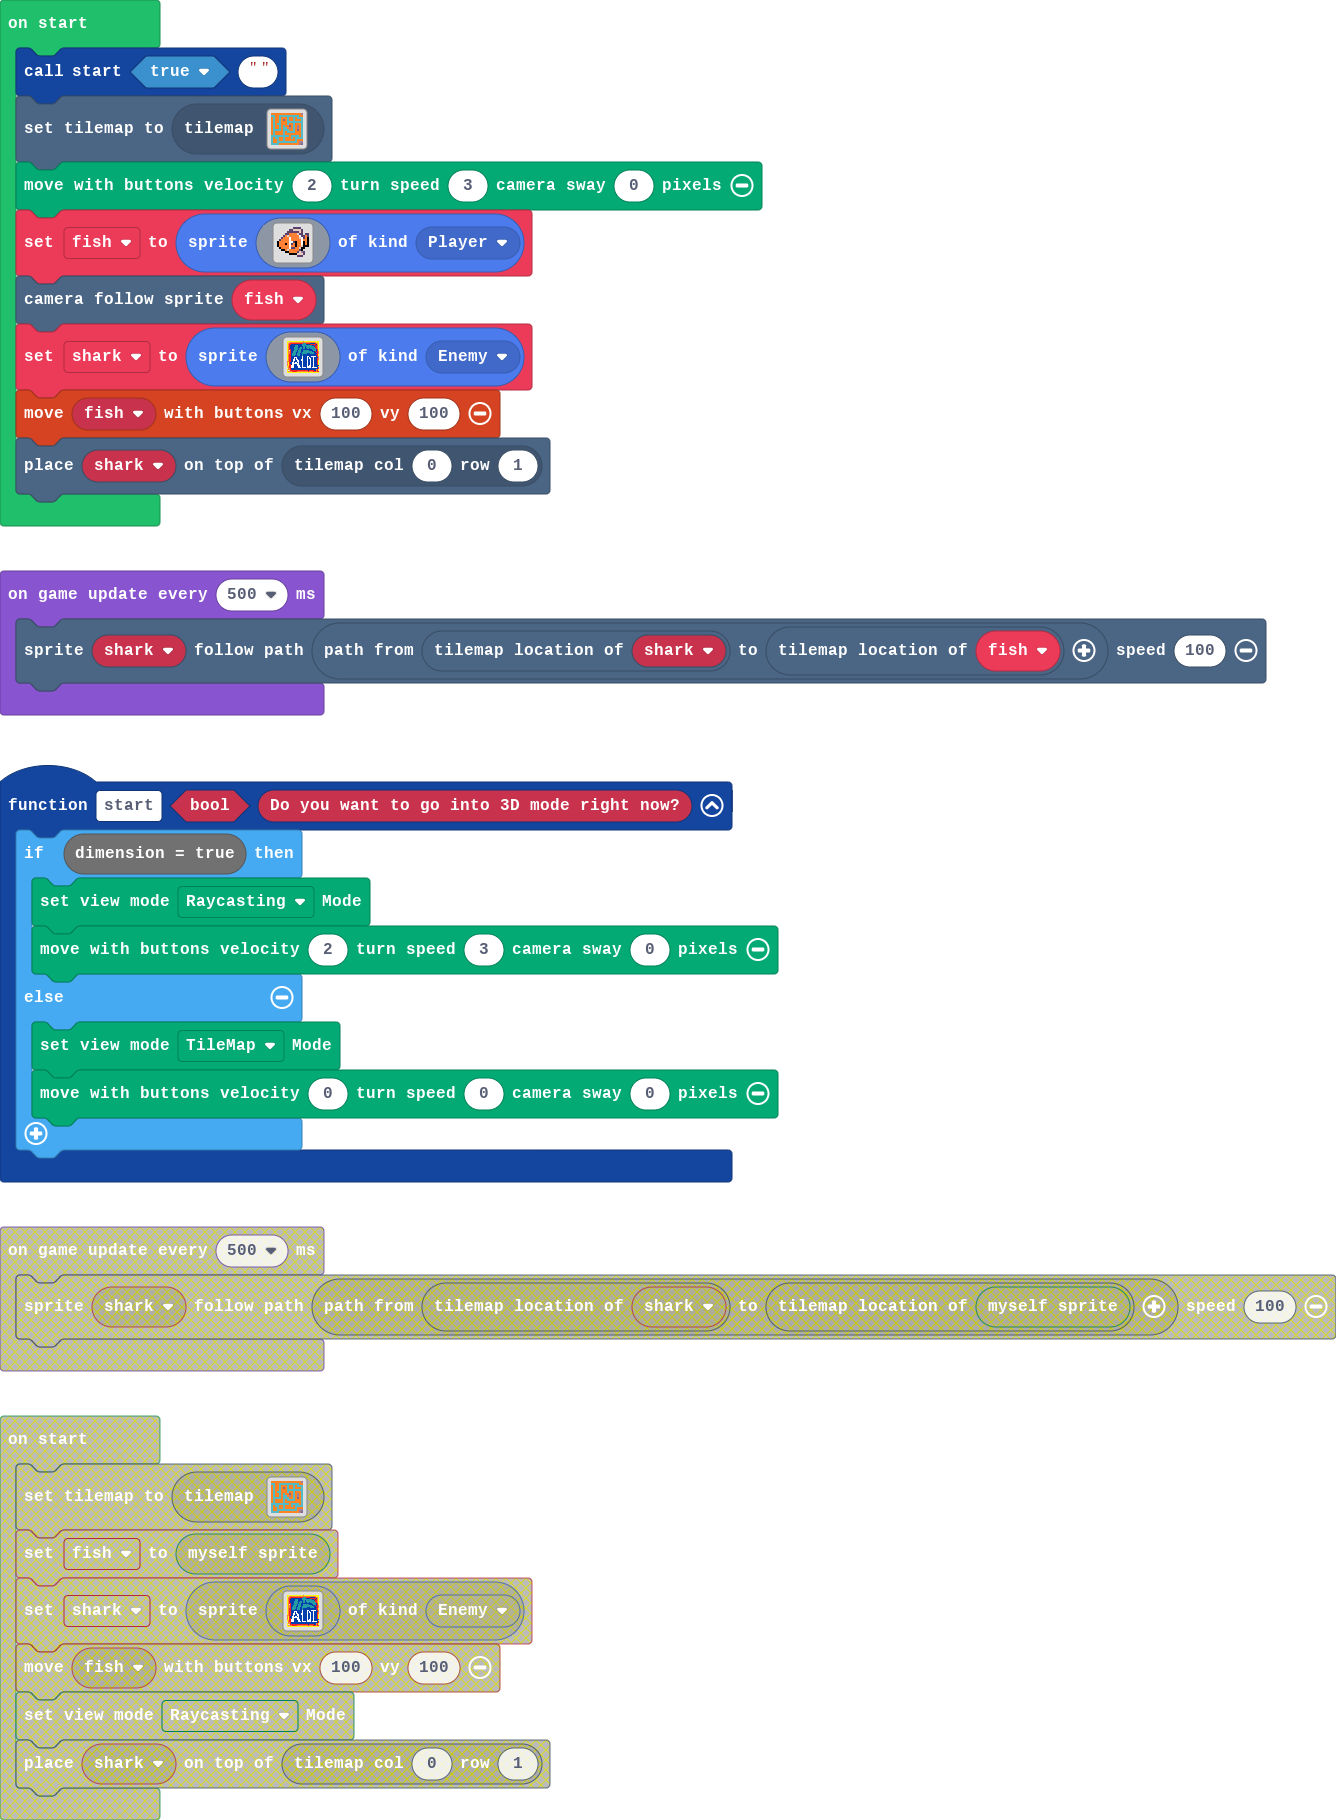
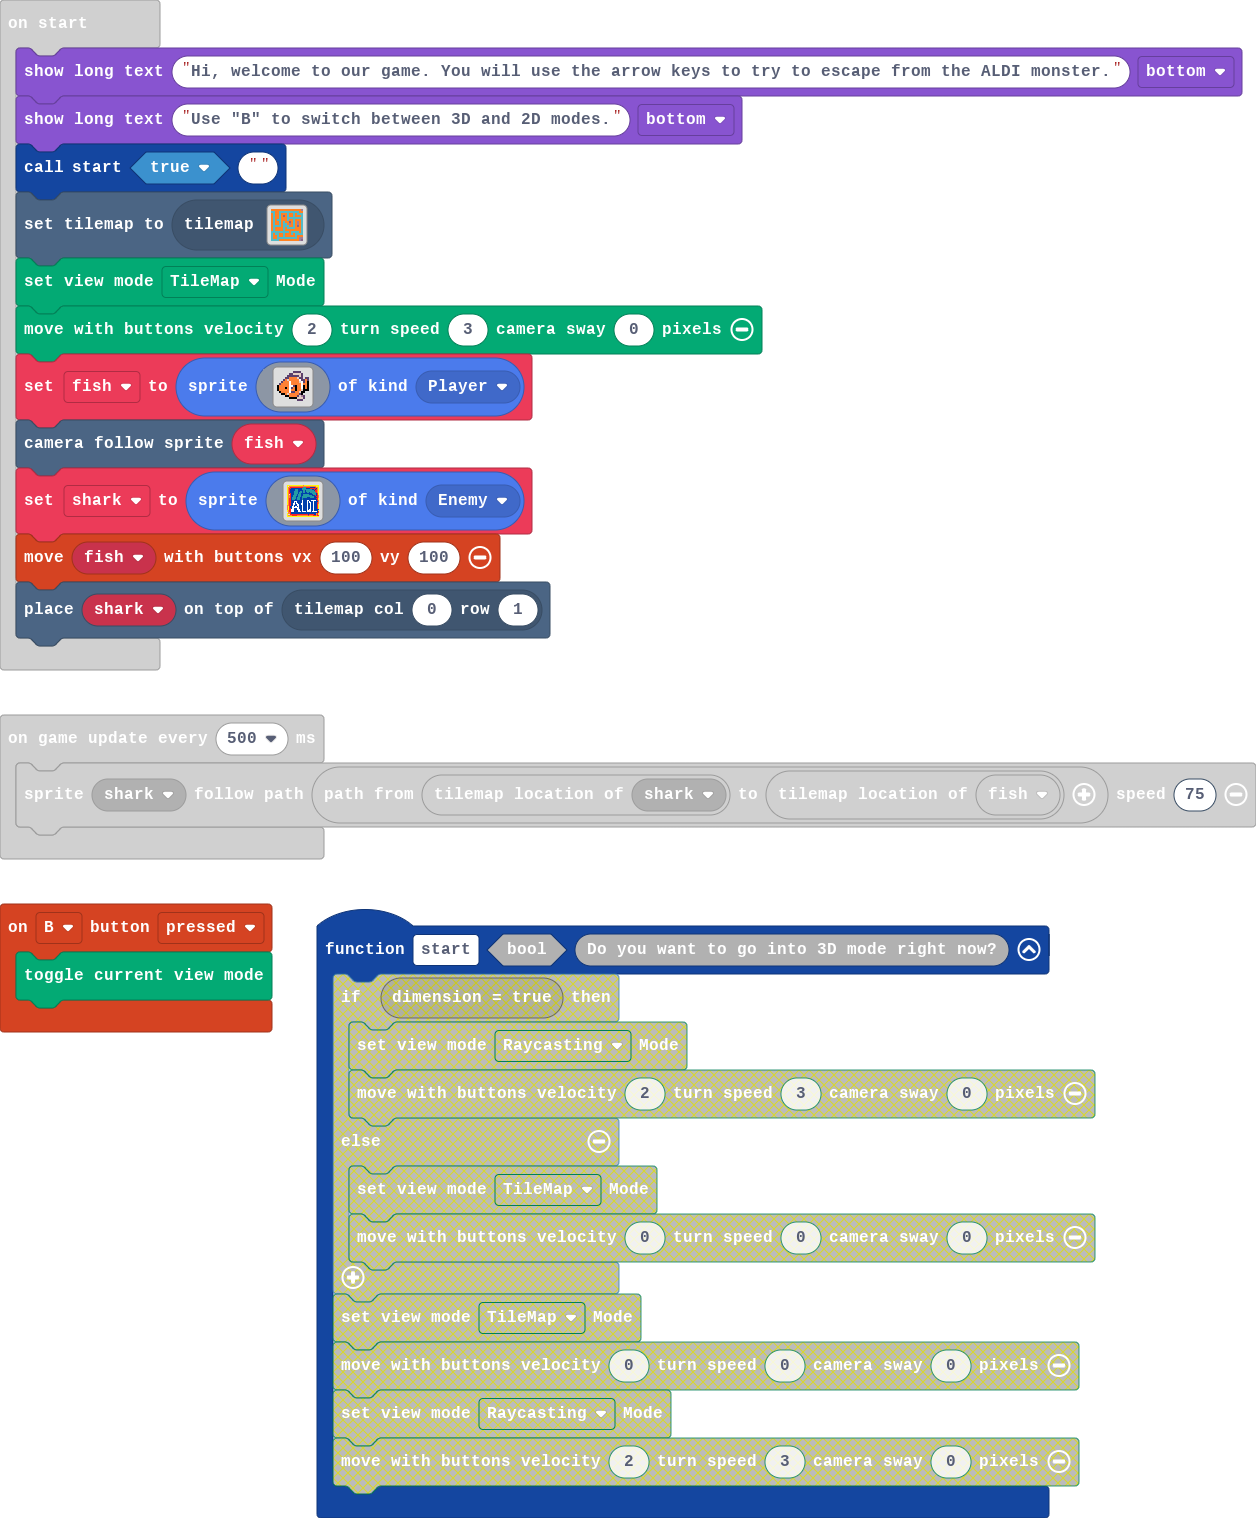
Update main.blocks, main.ts, tilemap.g.jres, tilemap.g.ts

diff --git a/tilemap.g.ts b/tilemap.g.ts
@@ -62,6 +62,25 @@ namespace myTiles {
 . . . . . . . . . . . . . . . . 
 . . . . . . . . . . . . . . . . 
 `, [myTiles.transparency16], TileScale.Sixteen);
+            case "level4":
+            case "level4":return tiles.createTilemap(hex`1000100000000000000000000000000000000000000000000000000000000000000000000000000000000000000000000000000000000000000000000000000000000000000000000000000000000000000000000000000000000000000000000000000000000000000000000000000000000000000000000000000000000000000000000000000000000000000000000000000000000000000000000000000000000000000000000000000000000000000000000000000000000000000000000000000000000000000000000000000000000000000000000000000000000000000000000000000000000000000000000000000000000000000000000000000000000000`, img`
+. . . . . . . . . . . . . . . . 
+. . . . . . . . . . . . . . . . 
+. . . . . . . . . . . . . . . . 
+. . . . . . . . . . . . . . . . 
+. . . . . . . . . . . . . . . . 
+. . . . . . . . . . . . . . . . 
+. . . . . . . . . . . . . . . . 
+. . . . . . . . . . . . . . . . 
+. . . . . . . . . . . . . . . . 
+. . . . . . . . . . . . . . . . 
+. . . . . . . . . . . . . . . . 
+. . . . . . . . . . . . . . . . 
+. . . . . . . . . . . . . . . . 
+. . . . . . . . . . . . . . . . 
+. . . . . . . . . . . . . . . . 
+. . . . . . . . . . . . . . . . 
+`, [myTiles.transparency16], TileScale.Sixteen);
         }
         return null;
     })

diff --git a/main.ts b/main.ts
@@ -1,14 +1,14 @@
+controller.B.onEvent(ControllerButtonEvent.Pressed, function () {
+    Render.toggleViewMode()
+})
 function start (bool: boolean, Do_you_want_to_go_into_3D_mode_right_now: string) {
-    if (dimension = true) {
-        Render.setViewMode(ViewMode.raycastingView)
-        Render.moveWithController(2, 3, 0)
-    } else {
-        Render.setViewMode(ViewMode.tilemapView)
-        Render.moveWithController(0, 0, 0)
-    }
+	
 }
+game.showLongText("Hi, welcome to our game. You will use the arrow keys to try to escape from the ALDI monster.", DialogLayout.Bottom)
+game.showLongText("Use \"B\" to switch between 3D and 2D modes.", DialogLayout.Bottom)
 start(true, "")
 tiles.setCurrentTilemap(tilemap`level2`)
+Render.setViewMode(ViewMode.tilemapView)
 Render.moveWithController(2, 3, 0)
 let fish = sprites.create(img`
     . . . . . . . . c c c c . . . . 
@@ -33,5 +33,5 @@ let shark = sprites.create(assets.image`myImage1`, SpriteKind.Enemy)
 controller.moveSprite(fish, 100, 100)
 tiles.placeOnTile(shark, tiles.getTileLocation(0, 1))
 game.onUpdateInterval(500, function () {
-    scene.followPath(shark, scene.aStar(shark.tilemapLocation(), fish.tilemapLocation()), 100)
+    scene.followPath(shark, scene.aStar(shark.tilemapLocation(), fish.tilemapLocation()), 75)
 })
